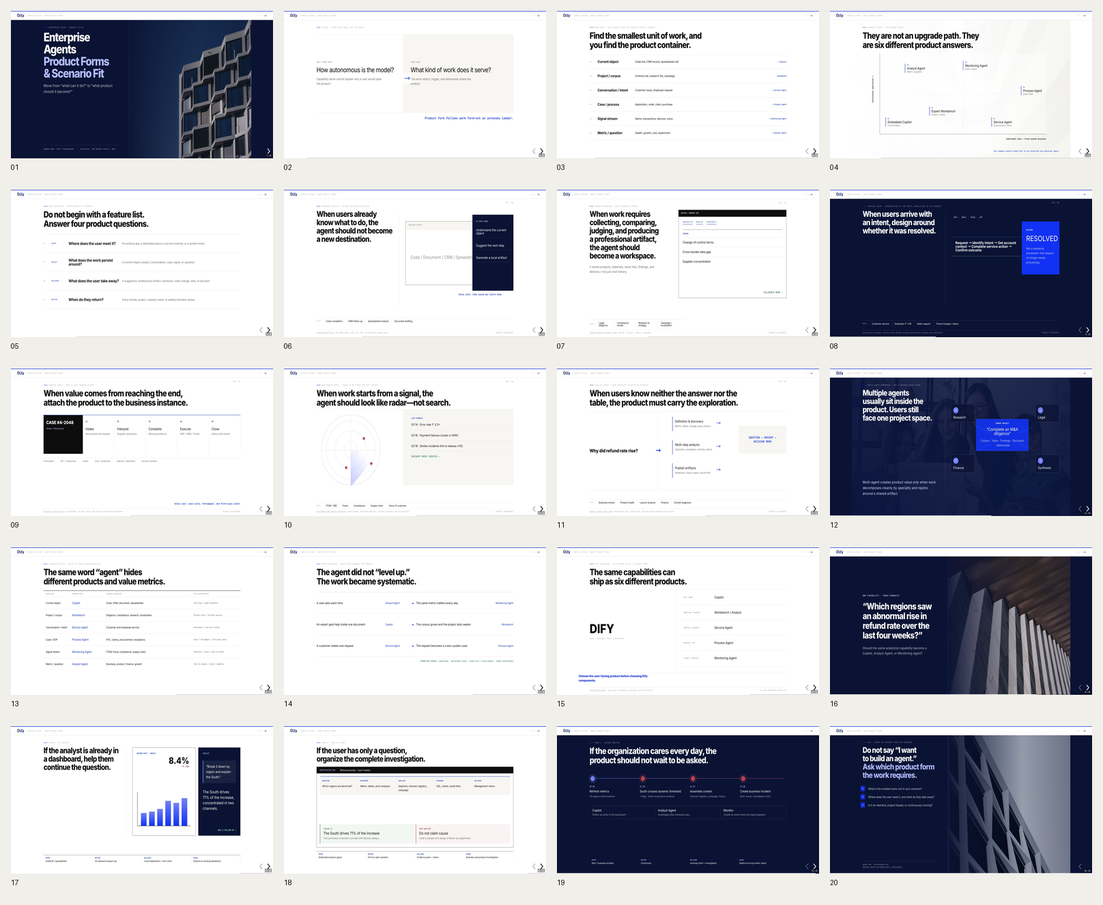
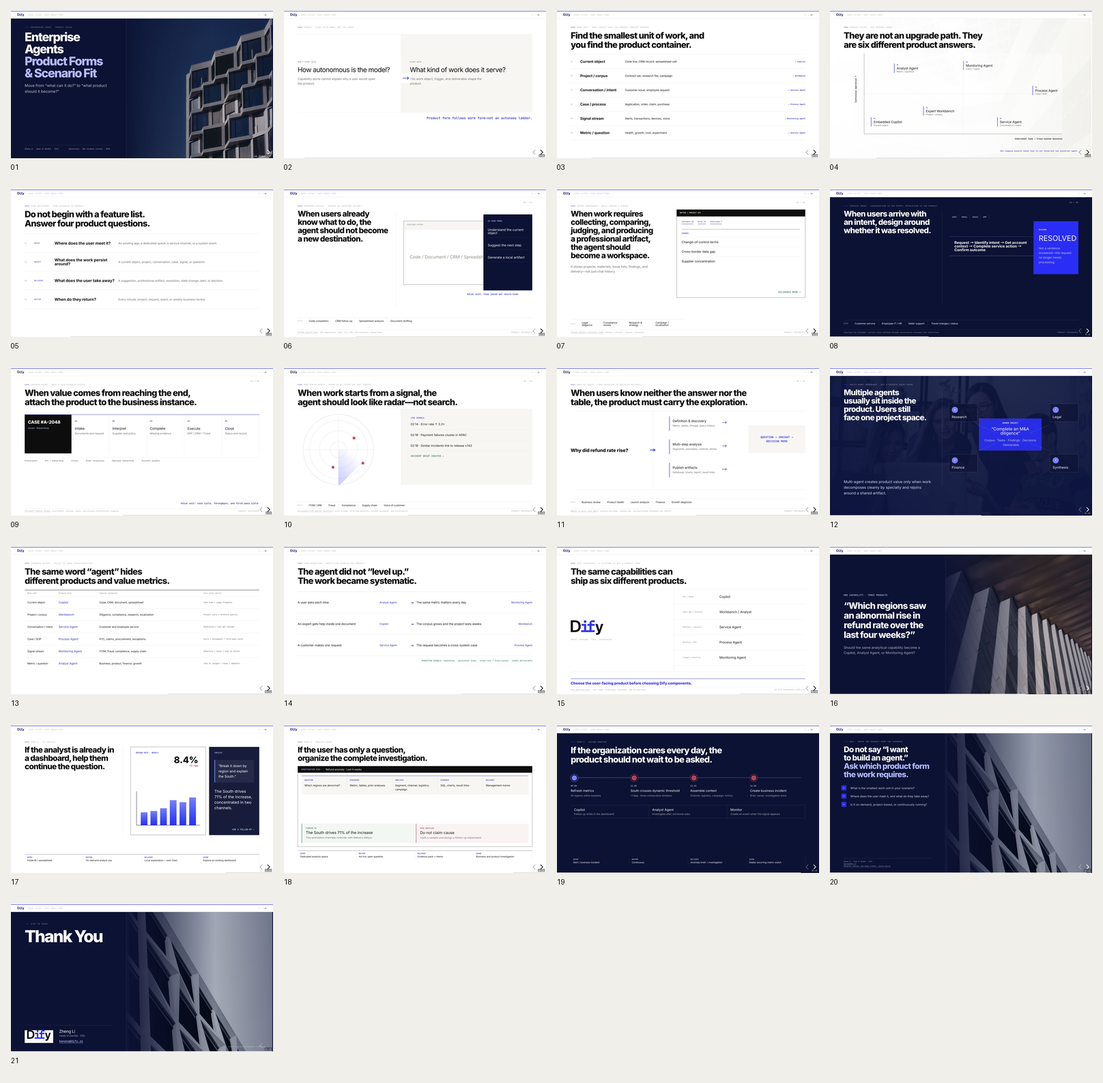
Polish Chinese deck and add thank you slide

diff --git a/enterprise-agent-campus/index.html b/enterprise-agent-campus/index.html
@@ -7,7 +7,8 @@
   <link rel="stylesheet" href="https://cdn.jsdelivr.net/npm/reveal.js@4.5.0/dist/reset.css"><link rel="stylesheet" href="https://cdn.jsdelivr.net/npm/reveal.js@4.5.0/dist/reveal.css">
   <link rel="preconnect" href="https://fonts.googleapis.com"><link rel="preconnect" href="https://fonts.gstatic.com" crossorigin><link href="https://fonts.googleapis.com/css2?family=Inter:wght@400;500;600;700;800&amp;family=Noto+Sans+SC:wght@400;500;600;700;800&amp;family=JetBrains+Mono:wght@400;500;600;700&amp;display=swap" rel="stylesheet">
   <link rel="stylesheet" href="styles.css?v=20260826-backgrounds2">
-  <link rel="stylesheet" href="editorial.css?v=20260826-index-reference3">
+  <link rel="stylesheet" href="editorial.css?v=20260826-index-reference4">
+  <link rel="stylesheet" href="editorial-zh.css?v=20260826-zh-spacing1">
 </head>
 <body>
   <div class="deck-brand"><img src="../assets/logo.svg" alt="Dify"><span>Campus Lecture · Agent Product Forms</span></div>
@@ -17,7 +18,7 @@
     <!-- 01 · VISUAL_SLOT: cover -->
     <section class="cover-slide" data-slide-id="f01-cover">
       <img class="photo-bg" src="assets/bg-enterprise-grid-timothee-duran.jpg" alt="Timothée Duran 在 Unsplash 发布的深蓝天空与几何办公建筑"><div class="cover-shade"></div>
-      <div class="cover-copy"><div><div class="eyebrow on-dark">Enterprise Agent · Product Atlas</div><h1>企业 Agent<br><span>产品形态<br>与场景选择</span></h1><p>从“能做什么”，走向“应该被做成什么产品”。</p></div><div class="cover-meta"><span>讲者姓名 · 职务 / 组织</span><span>学校 · 新生讲座 · 2026</span><b>45 MIN</b></div></div>
+      <div class="cover-copy"><div><div class="eyebrow on-dark">Enterprise Agent · Product Atlas</div><h1>企业 Agent<br><span>产品形态<br>与场景选择</span></h1><p>从“能做什么”，走向“应该被做成什么产品”。</p></div><div class="cover-meta"><span>Zheng Li · Head of DevRel · Dify</span><span>学校 · 新生讲座 · 2026</span><b>45 MIN</b></div></div>
       <aside class="notes">时长 0:30。核心讲法：今天不从模型、工具调用或治理功能开始，而是观察企业里已经出现的 Agent 产品形态，以及每种形态为什么适合不同工作。术语：产品形态指入口、工作对象、交付物和使用节奏的组合。过渡：先给出全场最重要的判断。证据边界：六类形态是教学分类，不是行业唯一分类。</aside>
     </section>
 
@@ -31,7 +32,7 @@
 
     <!-- 03 -->
     <section data-slide-id="f03-work-unit">
-      <div class="eyebrow">Work Unit · 产品围绕什么对象持续存在？</div><h2>找到最小工作单元，就找到了产品的“容器”。</h2>
+      <div class="eyebrow">Work Unit · 产品围绕什么对象持续存在？</div><h2>找到最小工作单元，<br>就找到了产品的“容器”。</h2>
       <div class="unit-spine">
         <div class="unit-line"></div>
         <div class="unit u1"><span>01</span><strong>当前对象</strong><p>代码行、CRM 记录、表格单元</p><b>→ Copilot</b></div>
@@ -47,7 +48,7 @@
     <!-- 04 -->
     <section class="atlas-slide" data-slide-id="f04-product-atlas">
       <img class="photo-bg atlas-photo" src="assets/bg-atrium-willian-justen.jpg" alt="Willian Justen de Vasconcellos 在 Unsplash 发布的现代中庭网格结构"><div class="atlas-veil"></div>
-      <div class="eyebrow">Product Atlas · 六种主形态</div><h2>它们不是一条升级路径，而是六种不同的产品答案。</h2>
+      <div class="eyebrow">Product Atlas · 六种主形态</div><h2>它们不是一条升级路径，<br>而是六种不同的产品答案。</h2>
       <div class="atlas-map">
         <div class="atlas-axis y">持续运行 ↑</div><div class="atlas-axis x">从个人任务 → 跨系统业务</div>
         <div class="atlas-dot ad1"><span>01</span><strong>嵌入式 Copilot</strong><small>当前对象</small></div>
@@ -63,7 +64,7 @@
 
     <!-- 05 -->
     <section data-slide-id="f05-four-questions">
-      <div class="eyebrow">Four Questions · 场景到产品</div><h2>别先写功能列表，先回答四个产品问题。</h2>
+      <div class="eyebrow">Four Questions · 场景到产品</div><h2>别先写功能列表，<br>先回答四个产品问题。</h2>
       <div class="question-route">
         <div class="route-line"></div>
         <div class="route-q"><span>01</span><small>ENTRY</small><strong>用户从哪里遇见它？</strong><p>已有软件、独立空间、服务渠道，还是系统事件。</p></div>
@@ -119,7 +120,7 @@
 
     <!-- 10 · REPORT_SLOT: monitoring agent -->
     <section class="monitor-slide" data-slide-id="f10-monitoring">
-      <div class="form-index">05 / 06</div><div class="eyebrow">Monitoring Agent · 产品没有“打开”时刻</div><h2>当工作从信号开始，Agent 应该像雷达，而不是搜索框。</h2>
+      <div class="form-index">05 / 06</div><div class="eyebrow">Monitoring Agent · 产品没有“打开”时刻</div><h2>当工作从信号开始，<br>Agent 应该像雷达，而不是搜索框。</h2>
       <div class="radar-stage"><div class="radar"><i></i><i></i><i></i><div class="sweep"></div><span class="ping p1"></span><span class="ping p2"></span><span class="ping p3"></span></div><div class="signal-feed fragment fade-up" data-fragment-index="0"><small>LIVE SIGNALS</small><p>02:14 · Error rate ↑ 3.2×</p><p>02:16 · 付款失败集中于 APAC</p><p>02:18 · 同类事件关联发布 v742</p><div class="signal-output">INCIDENT BRIEF CREATED →</div></div></div>
       <div class="scene-ribbon monitor-scenes"><b>适合</b><span>ITOM / SRE 告警</span><span>欺诈与交易风险</span><span>合规监测</span><span>供应链异常</span><span>客户声音</span></div>
       <div class="source-bar"><span><a href="https://www.servicenow.com/docs/r/it-operations-management/now-assist-for-it-operations-management/now-assist-itom-ai-agent-workflows.html" target="_blank" rel="noopener">ServiceNow ITOM agentic workflows</a>：告警分诊、模式识别、关联事件与验证</span><span>PRODUCT REFERENCE</span></div>
@@ -146,7 +147,7 @@
 
     <!-- 13 -->
     <section data-slide-id="f13-scenario-matrix">
-      <div class="eyebrow">Scenario Matrix · 用工作特征选形态</div><h2>同样叫“Agent”，产品设计和价值指标完全不同。</h2>
+      <div class="eyebrow">Scenario Matrix · 用工作特征选形态</div><h2>同样叫“Agent”，<br>产品设计和价值指标完全不同。</h2>
       <div class="form-matrix"><div class="fm-head"><span>工作单元</span><span>产品形态</span><span>典型场景</span><span>核心价值指标</span></div>
         <div class="fm-row"><b>当前对象</b><strong>Copilot</strong><p>编码、CRM、文档、表格</p><em>任务耗时 / 使用频率</em></div>
         <div class="fm-row"><b>项目 / 材料</b><strong>Workbench</strong><p>尽调、合规、研究、本地化</p><em>项目周期 / 产物质量</em></div>
@@ -172,8 +173,8 @@
 
     <!-- 15 -->
     <section data-slide-id="f15-dify-packaging">
-      <div class="eyebrow">Dify Packaging · 平台不是产品形态</div><h2>同一套能力，可以被发布成六种不同产品。</h2>
-      <div class="dify-metro"><div class="dify-core">DIFY<br><small>Models · Knowledge · Tools · Orchestration</small></div><div class="metro-line ml1"><span>API / Embed</span><strong>Copilot</strong></div><div class="metro-line ml2"><span>Agent App / Chatflow</span><strong>Workbench / Analyst</strong></div><div class="metro-line ml3"><span>Chatflow + Channels</span><strong>Service Agent</strong></div><div class="metro-line ml4"><span>Workflow + API</span><strong>Process Agent</strong></div><div class="metro-line ml5"><span>Trigger + Workflow</span><strong>Monitoring Agent</strong></div></div>
+      <div class="eyebrow">Dify Packaging · 平台不是产品形态</div><h2>同一套能力，可以被发布成<br>六种不同产品。</h2>
+      <div class="dify-metro"><div class="dify-core"><img class="dify-platform-logo" src="../assets/logo.svg" alt="Dify"><small>Models · Knowledge · Tools · Orchestration</small></div><div class="metro-line ml1"><span>API / Embed</span><strong>Copilot</strong></div><div class="metro-line ml2"><span>Agent App / Chatflow</span><strong>Workbench / Analyst</strong></div><div class="metro-line ml3"><span>Chatflow + Channels</span><strong>Service Agent</strong></div><div class="metro-line ml4"><span>Workflow + API</span><strong>Process Agent</strong></div><div class="metro-line ml5"><span>Trigger + Workflow</span><strong>Monitoring Agent</strong></div></div>
       <div class="packaging-verdict">选择 Dify 组件之前，先决定用户面对的是哪一种产品。</div>
       <div class="source-bar"><span><a href="https://docs.dify.ai/en/guides/application-orchestrate/creating-an-application" target="_blank" rel="noopener">Dify Workflow docs</a> · Workflow、用户输入、分支、迭代与 API 发布</span><span>30 MIN FRAMEWORK COMPLETE</span></div>
       <aside class="notes">时长 1:30。核心讲法：Dify 提供模型、知识、工具和编排，但真正的产品形态来自发布入口和工作对象。API 可嵌入 Copilot，Chatflow 承载服务，Workflow 推进流程和监测，Agent App 承载探索。术语：packaging 是把共享能力包装成面向具体用户和场景的产品。过渡：用同一个退款率问题，演示三种形态的差别。证据边界：映射是产品设计建议，不是 Dify 官方固定分类。</aside>
@@ -196,7 +197,7 @@
 
     <!-- 18 · CASE_SLOT: analyst product -->
     <section class="analyst-case-slide" data-slide-id="f18-case-analyst">
-      <div class="eyebrow">Form B · Analyst Agent</div><h2>如果用户只有问题，产品必须替他组织一次完整调查。</h2>
+      <div class="eyebrow">Form B · Analyst Agent</div><h2>如果用户只有问题，<br>产品必须替他组织一次完整调查。</h2>
       <div class="investigation-canvas"><div class="investigation-head"><span>INVESTIGATION #184</span><strong>Refund anomaly · Last 4 weeks</strong></div><div class="investigation-path"><div><small>QUESTION</small><p>哪些地区异常？</p></div><div><small>DISCOVERY</small><p>指标、表、历史分析</p></div><div><small>ANALYSIS</small><p>分群、渠道、物流、活动</p></div><div><small>EVIDENCE</small><p>SQL、图表、结果链接</p></div><div><small>DELIVERY</small><p>管理层 Memo</p></div></div><div class="finding fragment fade-up" data-fragment-index="0"><b>FINDING 01</b><strong>南区贡献 71% 的增量</strong><p>两个促销渠道与延迟配送共同出现。</p></div><div class="finding f2 fragment fade-up" data-fragment-index="1"><b>OPEN QUESTION</b><strong>不能直接声称因果</strong><p>建议抽样核对并设计后续实验。</p></div></div>
       <div class="product-spec"><span><small>ENTRY</small>独立分析空间</span><span><small>RHYTHM</small>临时开放问题</span><span><small>DELIVERY</small>证据包 + Memo</span><span><small>SCENE</small>经营与产品调查</span></div>
       <aside class="notes">时长 3:00。核心讲法：分析 Agent 把一个开放问题变成 investigation，保存发现路径、证据和管理层产物。适合业务用户没有预先选好表或图的场景。术语：investigation 是可持续几小时或几天的分析项目。过渡：当同一问题每周都被重复问，产品还会进一步变成监测 Agent。证据边界：发现和数字均为合成教学内容。</aside>
@@ -204,7 +205,7 @@
 
     <!-- 19 · CASE_SLOT: monitoring product -->
     <section class="monitor-case-slide" data-slide-id="f19-case-monitor">
-      <div class="eyebrow on-dark">Form C · Refund Monitor</div><h2>如果组织每天都关心同一异常，产品不该等人来问。</h2>
+      <div class="eyebrow on-dark">Form C · Refund Monitor</div><h2>如果组织每天都关心同一异常，<br>产品不该等人来问。</h2>
       <div class="monitor-timeline"><div class="timeline-line"></div><div class="time-event e1"><span>09:00</span><strong>刷新指标</strong><p>所有地区在基线内</p></div><div class="time-event e2 fragment fade-up" data-fragment-index="0"><span>11:20</span><strong>南区越过动态阈值</strong><p>+1.8pp · 连续 3 个窗口</p></div><div class="time-event e3 fragment fade-up" data-fragment-index="1"><span>11:24</span><strong>自动聚合上下文</strong><p>渠道、物流、活动与历史异常</p></div><div class="time-event e4 fragment fade-up" data-fragment-index="2"><span>11:28</span><strong>创建经营事件</strong><p>Brief、负责人、后续调查入口</p></div></div>
       <div class="three-form-compare fragment fade-up" data-fragment-index="3"><div><b>Copilot</b><span>人在 Dashboard 时追问</span></div><div><b>Analyst Agent</b><span>有人提出问题后调查</span></div><div><b>Monitor</b><span>信号出现时主动创建事件</span></div></div>
       <div class="product-spec dark-spec"><span><small>ENTRY</small>告警 / 经营事件</span><span><small>RHYTHM</small>持续运行</span><span><small>DELIVERY</small>异常 Brief + 调查入口</span><span><small>SCENE</small>稳定、重复的指标监测</span></div>
@@ -214,8 +215,16 @@
     <!-- 20 · VISUAL_SLOT: closing -->
     <section class="closing-slide" data-slide-id="f20-qa">
       <img class="photo-bg" src="assets/bg-geometric-facade-arlind.jpg" alt="Arlind Photography 在 Unsplash 发布的现代建筑几何立面"><div class="closing-shade"></div>
-      <div class="closing-copy"><div class="eyebrow on-dark">Q&amp;A · 从场景反推产品</div><h2>不要问“我要做一个 Agent”。<br><span>先问：这项工作需要哪种产品形态？</span></h2><div class="question-path"><p class="fragment fade-up" data-fragment-index="0"><b>01</b> 你的场景最小工作单元是什么？</p><p class="fragment fade-up" data-fragment-index="1"><b>02</b> 用户从哪里遇见它，最后拿走什么？</p><p class="fragment fade-up" data-fragment-index="2"><b>03</b> 它是按需使用、按项目使用，还是持续运行？</p></div><div class="closing-meta"><p>讲者姓名 · speaker@example.com<br><a href="source-map.md" target="_blank">研究、来源与图片版权 → source-map.md</a></p><p>Unsplash：Timothée Duran · Willian Justen · Mimi Thian · Declan Sun · Arlind Photography<br>学校 · 新生讲座 · 2026</p></div></div>
-      <aside class="notes">时长 5:00。核心讲法：用三个产品问题引导讨论。若现场安静，让同学先说出自己专业里一个稳定的工作对象，再判断对应形态。术语：场景选择是从工作单元、入口、交付和节奏反推产品。过渡：会后可查看 source map。证据边界：Q&amp;A 不扩展为未经验证的产品承诺；联系方式仍是占位符。</aside>
+      <div class="closing-copy"><div class="eyebrow on-dark">Q&amp;A · 从场景反推产品</div><h2>不要问“我要做一个 Agent”。<br><span>先问：这项工作需要哪种产品形态？</span></h2><div class="question-path"><p class="fragment fade-up" data-fragment-index="0"><b>01</b> 你的场景最小工作单元是什么？</p><p class="fragment fade-up" data-fragment-index="1"><b>02</b> 用户从哪里遇见它，最后拿走什么？</p><p class="fragment fade-up" data-fragment-index="2"><b>03</b> 它是按需使用、按项目使用，还是持续运行？</p></div><div class="closing-meta"><p>Zheng Li · Head of DevRel · Dify<br><a href="mailto:banana@dify.ai">banana@dify.ai</a><br><a href="source-map.md" target="_blank">研究、来源与图片版权 → source-map.md</a></p><p>Unsplash：Timothée Duran · Willian Justen · Mimi Thian · Declan Sun · Arlind Photography<br>学校 · 新生讲座 · 2026</p></div></div>
+      <aside class="notes">时长 4:30。核心讲法：用三个产品问题引导讨论。若现场安静，让同学先说出自己专业里一个稳定的工作对象，再判断对应形态。术语：场景选择是从工作单元、入口、交付和节奏反推产品。过渡：用联系方式结束，并邀请会后交流。证据边界：Q&amp;A 不扩展为未经验证的产品承诺。</aside>
+    </section>
+
+    <!-- 21 · VISUAL_SLOT: thank you -->
+    <section class="thank-you-slide" data-slide-id="f21-thank-you">
+      <img class="photo-bg thank-you-photo" src="assets/bg-geometric-facade-arlind.jpg" alt="Arlind Photography 在 Unsplash 发布的现代建筑几何立面"><div class="thank-you-shade"></div>
+      <div class="thank-you-copy"><div class="thank-you-main"><div class="eyebrow on-dark">谢谢 · 保持联系</div><h2>Thank You</h2></div><div class="thank-you-contact"><span class="thank-you-logo"><img src="../assets/logo.svg" alt="Dify"></span><div><strong>Zheng Li</strong><span>Head of DevRel · Dify</span><a href="mailto:banana@dify.ai">banana@dify.ai</a></div></div></div>
+      <div class="thank-you-credit">Photo · Arlind Photography / Unsplash</div>
+      <aside class="notes">时长 0:30。核心讲法：感谢到场，并邀请同学通过邮箱继续交流企业 Agent 的产品形态与场景选择。术语：无。过渡：演讲结束。证据边界：联系方式为讲者公开工作邮箱。</aside>
     </section>
 
   </div></div>

diff --git a/enterprise-agent-campus/index_en.html b/enterprise-agent-campus/index_en.html
@@ -3,14 +3,14 @@
 <head>
   <meta charset="utf-8"><meta name="viewport" content="width=device-width, initial-scale=1.0, maximum-scale=1.0, user-scalable=no"><title>Enterprise Agents: Product Forms and Scenario Fit — Dify</title>
   <link rel="icon" href="../assets/logo.svg" type="image/svg+xml"><link rel="stylesheet" href="https://cdn.jsdelivr.net/npm/reveal.js@4.5.0/dist/reset.css"><link rel="stylesheet" href="https://cdn.jsdelivr.net/npm/reveal.js@4.5.0/dist/reveal.css">
-  <link rel="preconnect" href="https://fonts.googleapis.com"><link rel="preconnect" href="https://fonts.gstatic.com" crossorigin><link href="https://fonts.googleapis.com/css2?family=Inter:wght@400;500;600;700;800&amp;family=Noto+Sans+SC:wght@400;500;600;700;800&amp;family=JetBrains+Mono:wght@400;500;600;700&amp;display=swap" rel="stylesheet"><link rel="stylesheet" href="styles.css?v=20260826-backgrounds2"><link rel="stylesheet" href="editorial.css?v=20260826-index-reference3">
+  <link rel="preconnect" href="https://fonts.googleapis.com"><link rel="preconnect" href="https://fonts.gstatic.com" crossorigin><link href="https://fonts.googleapis.com/css2?family=Inter:wght@400;500;600;700;800&amp;family=Noto+Sans+SC:wght@400;500;600;700;800&amp;family=JetBrains+Mono:wght@400;500;600;700&amp;display=swap" rel="stylesheet"><link rel="stylesheet" href="styles.css?v=20260826-backgrounds2"><link rel="stylesheet" href="editorial.css?v=20260826-index-reference4">
 </head>
 <body>
   <div class="deck-brand"><img src="../assets/logo.svg" alt="Dify"><span>Campus Lecture · Agent Product Forms</span></div><div class="lang-switch"><a href="index.html">中文</a><span>/</span><a class="active" href="index_en.html">EN</a></div>
   <div class="reveal"><div class="slides">
 
     <section class="cover-slide" data-slide-id="f01-cover">
-      <img class="photo-bg" src="assets/bg-enterprise-grid-timothee-duran.jpg" alt="Deep blue sky and geometric office building by Timothée Duran on Unsplash"><div class="cover-shade"></div><div class="cover-copy"><div><div class="eyebrow on-dark">Enterprise Agent · Product Atlas</div><h1>Enterprise Agents<br><span>Product Forms<br>&amp; Scenario Fit</span></h1><p>Move from “what can it do?” to “what product should it become?”</p></div><div class="cover-meta"><span>Speaker Name · Role / Organization</span><span>University · New Student Lecture · 2026</span><b>45 MIN</b></div></div>
+      <img class="photo-bg" src="assets/bg-enterprise-grid-timothee-duran.jpg" alt="Deep blue sky and geometric office building by Timothée Duran on Unsplash"><div class="cover-shade"></div><div class="cover-copy"><div><div class="eyebrow on-dark">Enterprise Agent · Product Atlas</div><h1>Enterprise Agents<br><span>Product Forms<br>&amp; Scenario Fit</span></h1><p>Move from “what can it do?” to “what product should it become?”</p></div><div class="cover-meta"><span>Zheng Li · Head of DevRel · Dify</span><span>University · New Student Lecture · 2026</span><b>45 MIN</b></div></div>
       <aside class="notes">Time 0:30. Core delivery: start not with models, tool calls, or governance features, but with the product forms emerging inside enterprises and the work each form fits. Term: product form combines entry point, work object, deliverable, and usage rhythm. Transition: begin with the lecture's central claim. Evidence boundary: the six forms are a teaching taxonomy, not the only industry taxonomy.</aside>
     </section>
 
@@ -100,7 +100,7 @@
 
     <section data-slide-id="f15-dify-packaging">
       <div class="eyebrow">Dify Packaging · A Platform Is Not a Product Form</div><h2>The same capabilities can ship as six different products.</h2>
-      <div class="dify-metro"><div class="dify-core">DIFY<br><small>Models · Knowledge · Tools · Orchestration</small></div><div class="metro-line ml1"><span>API / Embed</span><strong>Copilot</strong></div><div class="metro-line ml2"><span>Agent App / Chatflow</span><strong>Workbench / Analyst</strong></div><div class="metro-line ml3"><span>Chatflow + Channels</span><strong>Service Agent</strong></div><div class="metro-line ml4"><span>Workflow + API</span><strong>Process Agent</strong></div><div class="metro-line ml5"><span>Trigger + Workflow</span><strong>Monitoring Agent</strong></div></div><div class="packaging-verdict">Choose the user-facing product before choosing Dify components.</div>
+      <div class="dify-metro"><div class="dify-core"><img class="dify-platform-logo" src="../assets/logo.svg" alt="Dify"><small>Models · Knowledge · Tools · Orchestration</small></div><div class="metro-line ml1"><span>API / Embed</span><strong>Copilot</strong></div><div class="metro-line ml2"><span>Agent App / Chatflow</span><strong>Workbench / Analyst</strong></div><div class="metro-line ml3"><span>Chatflow + Channels</span><strong>Service Agent</strong></div><div class="metro-line ml4"><span>Workflow + API</span><strong>Process Agent</strong></div><div class="metro-line ml5"><span>Trigger + Workflow</span><strong>Monitoring Agent</strong></div></div><div class="packaging-verdict">Choose the user-facing product before choosing Dify components.</div>
       <div class="source-bar"><span><a href="https://docs.dify.ai/en/guides/application-orchestrate/creating-an-application" target="_blank" rel="noopener">Dify Workflow docs</a> · user input, branching, iteration, and API delivery</span><span>30 MIN FRAMEWORK COMPLETE</span></div>
       <aside class="notes">Time 1:30. Core delivery: Dify supplies models, knowledge, tools, and orchestration, while product form comes from the delivery entry and work object. API enables copilots, Chatflow service, Workflow processes and monitoring, and Agent App exploration. Term: packaging turns shared capability into a product for one user and scenario. Transition: compare three products built from the same refund question. Evidence boundary: this mapping is product-design guidance, not Dify's official fixed taxonomy.</aside>
     </section>
@@ -129,8 +129,15 @@
     </section>
 
     <section class="closing-slide" data-slide-id="f20-qa">
-      <img class="photo-bg" src="assets/bg-geometric-facade-arlind.jpg" alt="Modern geometric building facade by Arlind Photography on Unsplash"><div class="closing-shade"></div><div class="closing-copy"><div class="eyebrow on-dark">Q&amp;A · Infer the Product from the Scenario</div><h2>Do not say “I want to build an agent.”<br><span>Ask which product form the work requires.</span></h2><div class="question-path"><p class="fragment fade-up" data-fragment-index="0"><b>01</b> What is the smallest work unit in your scenario?</p><p class="fragment fade-up" data-fragment-index="1"><b>02</b> Where does the user meet it, and what do they take away?</p><p class="fragment fade-up" data-fragment-index="2"><b>03</b> Is it on-demand, project-based, or continuously running?</p></div><div class="closing-meta"><p>Speaker Name · speaker@example.com<br><a href="source-map.md" target="_blank">Research, sources, and image credits → source-map.md</a></p><p>Unsplash: Timothée Duran · Willian Justen · Mimi Thian · Declan Sun · Arlind Photography<br>University · New Student Lecture · 2026</p></div></div>
-      <aside class="notes">Time 5:00. Core delivery: use the three product questions to open discussion. If the room is quiet, ask for one stable work object in their discipline and classify the form. Term: scenario selection infers product from work unit, entry, delivery, and rhythm. Transition: source map is available after the talk. Evidence boundary: do not turn Q&amp;A into unverified product commitments; contact information remains placeholder text.</aside>
+      <img class="photo-bg" src="assets/bg-geometric-facade-arlind.jpg" alt="Modern geometric building facade by Arlind Photography on Unsplash"><div class="closing-shade"></div><div class="closing-copy"><div class="eyebrow on-dark">Q&amp;A · Infer the Product from the Scenario</div><h2>Do not say “I want to build an agent.”<br><span>Ask which product form the work requires.</span></h2><div class="question-path"><p class="fragment fade-up" data-fragment-index="0"><b>01</b> What is the smallest work unit in your scenario?</p><p class="fragment fade-up" data-fragment-index="1"><b>02</b> Where does the user meet it, and what do they take away?</p><p class="fragment fade-up" data-fragment-index="2"><b>03</b> Is it on-demand, project-based, or continuously running?</p></div><div class="closing-meta"><p>Zheng Li · Head of DevRel · Dify<br><a href="mailto:banana@dify.ai">banana@dify.ai</a><br><a href="source-map.md" target="_blank">Research, sources, and image credits → source-map.md</a></p><p>Unsplash: Timothée Duran · Willian Justen · Mimi Thian · Declan Sun · Arlind Photography<br>University · New Student Lecture · 2026</p></div></div>
+      <aside class="notes">Time 4:30. Core delivery: use the three product questions to open discussion. If the room is quiet, ask for one stable work object in their discipline and classify the form. Term: scenario selection infers product from work unit, entry, delivery, and rhythm. Transition: close with contact details and invite follow-up. Evidence boundary: do not turn Q&amp;A into unverified product commitments.</aside>
+    </section>
+
+    <section class="thank-you-slide" data-slide-id="f21-thank-you">
+      <img class="photo-bg thank-you-photo" src="assets/bg-geometric-facade-arlind.jpg" alt="Modern geometric building facade by Arlind Photography on Unsplash"><div class="thank-you-shade"></div>
+      <div class="thank-you-copy"><div class="thank-you-main"><div class="eyebrow on-dark">Stay in touch</div><h2>Thank You</h2></div><div class="thank-you-contact"><span class="thank-you-logo"><img src="../assets/logo.svg" alt="Dify"></span><div><strong>Zheng Li</strong><span>Head of DevRel · Dify</span><a href="mailto:banana@dify.ai">banana@dify.ai</a></div></div></div>
+      <div class="thank-you-credit">Photo · Arlind Photography / Unsplash</div>
+      <aside class="notes">Time 0:30. Core delivery: thank the audience and invite follow-up on enterprise agent product forms and scenario selection. Term: none. Transition: end of talk. Evidence boundary: the email address is the speaker's public work contact.</aside>
     </section>
 
   </div></div>

diff --git a/enterprise-agent-campus/editorial.css b/enterprise-agent-campus/editorial.css
@@ -218,12 +218,13 @@ html,body{background:var(--paper);border-top:3px solid var(--blue)}
 
 /* 15 — Dify platform left, packaging index right */
 .dify-metro{height:610px;margin-top:28px;border-top:1px solid var(--line);border-bottom:1px solid var(--line)}
-.dify-core{left:0;top:0;width:44%;height:100%;transform:none;border-radius:0;border-right:1px solid var(--line);background:#fff;color:var(--ink);text-align:left;align-items:flex-start;padding-right:70px;font-size:92px}
-.dify-core small{color:var(--ghost);font-size:12px;text-align:left}
+.dify-core{left:0;top:0;width:44%;height:100%;transform:none;border-radius:0;border-right:1px solid var(--line);background:#fff;color:var(--ink);text-align:left;align-items:flex-start;padding-right:70px;font-size:0}
+.dify-platform-logo{display:block;width:240px;height:auto}
+.dify-core small{margin-top:26px;color:var(--ghost);font-size:12px;text-align:left}
 .metro-line{left:44%;right:0;width:auto;height:112px;padding:0 0 0 65px;border:0;border-bottom:1px solid var(--line);background:#fff;grid-template-columns:270px 1fr}
 .ml1{top:0}.ml2{top:112px}.ml3{top:224px}.ml4{top:336px}.ml5{top:448px}
 .metro-line span{font-size:12px}.metro-line strong{font-size:24px}
-.packaging-verdict{left:0;bottom:90px;width:36%;transform:none;font-size:23px;line-height:1.4;white-space:normal}
+.packaging-verdict{left:96px;right:96px;bottom:64px;width:auto;transform:none;padding-top:15px;border-top:2px solid var(--blue);font-size:27px;line-height:1.3;white-space:normal}
 
 /* 16 — case chapter split */
 .case-cover{background:var(--navy)!important}
@@ -271,6 +272,21 @@ html,body{background:var(--paper);border-top:3px solid var(--blue)}
 .question-path p b{left:-18px;top:11px;width:36px;height:36px;border-radius:0;font-size:10px}
 .closing-meta{left:96px;right:auto;bottom:42px;width:650px;grid-template-columns:1fr;padding-top:14px}
 .closing-meta p{font-size:11px}.closing-meta p:last-child{display:none}
+
+/* 21 — minimal thank-you bookend */
+.thank-you-slide{padding:0!important;background:var(--navy)!important;color:#fff}
+.thank-you-photo{left:44%;width:56%;object-position:center 38%;filter:saturate(.46) contrast(1.08)}
+.thank-you-shade{position:absolute;inset:0;background:linear-gradient(90deg,var(--navy) 0 44%,rgba(8,19,53,.97) 44%,rgba(8,19,53,.28) 78%,rgba(8,19,53,.52))}
+.thank-you-copy{position:relative;z-index:2;width:44%;height:100%;display:flex;flex-direction:column;justify-content:space-between;padding:132px 72px 64px 96px;border-right:1px solid rgba(255,255,255,.2)}
+.thank-you-main h2{margin-top:26px;color:#fff;font-size:122px;line-height:.96;letter-spacing:-.06em}
+.thank-you-contact{display:grid;grid-template-columns:220px 1fr;align-items:center;gap:34px;width:650px;padding-top:28px;border-top:1px solid rgba(255,255,255,.24)}
+.thank-you-logo{display:grid;place-items:center;width:210px;height:94px;background:#fff}
+.thank-you-logo img{display:block;width:174px;height:auto}
+.thank-you-contact strong,.thank-you-contact span,.thank-you-contact a{display:block}
+.thank-you-contact strong{font-size:30px;letter-spacing:-.025em}
+.thank-you-contact span{margin-top:8px;color:rgba(255,255,255,.62);font-size:19px}
+.thank-you-contact a{margin-top:18px;color:#aeb9ff;font:600 21px/1.2 var(--mono);text-underline-offset:5px}
+.thank-you-credit{position:absolute;z-index:2;right:48px;bottom:30px;color:rgba(255,255,255,.5);font:500 11px/1 var(--mono);letter-spacing:.08em;text-transform:uppercase}
 
 @media print{
   html,body{border-top:0}

diff --git a/enterprise-agent-campus/editorial-zh.css b/enterprise-agent-campus/editorial-zh.css
@@ -1,0 +1,105 @@
+:root{
+  --zh-title:68px;
+  --zh-leading:1.06;
+}
+
+html[lang="zh-CN"] .reveal h1,
+html[lang="zh-CN"] .reveal h2,
+html[lang="zh-CN"] .reveal blockquote{
+  letter-spacing:-.048em;
+  text-wrap:balance;
+}
+
+html[lang="zh-CN"] .reveal h2{
+  font-size:var(--zh-title);
+  line-height:var(--zh-leading);
+}
+
+html[lang="zh-CN"] .eyebrow{
+  margin-bottom:18px;
+  letter-spacing:.1em;
+}
+
+/* 01 — Chinese cover cadence */
+html[lang="zh-CN"] .cover-copy h1{
+  width:680px;
+  font-size:92px;
+  line-height:1;
+}
+
+html[lang="zh-CN"] .cover-copy>div>p{
+  margin-top:30px;
+  font-size:29px;
+}
+
+/* 02 — shorter Chinese copy needs more presence */
+html[lang="zh-CN"] .form-thesis strong{
+  margin-top:28px;
+  font-size:54px;
+  line-height:1.1;
+}
+
+html[lang="zh-CN"] .form-thesis p{
+  max-width:560px;
+  margin-top:26px;
+  font-size:24px;
+}
+
+/* Product split pages keep the interface anchored at x = 820 */
+html[lang="zh-CN"] [data-slide-id="f06-copilot"] h2,
+html[lang="zh-CN"] [data-slide-id="f08-service"] h2,
+html[lang="zh-CN"] [data-slide-id="f12-multi-agent"] h2,
+html[lang="zh-CN"] [data-slide-id="f17-case-copilot"] h2{
+  width:710px;
+  font-size:60px;
+  line-height:1.05;
+}
+
+/* 07 — rebalance the compact Chinese claim against the workbench */
+html[lang="zh-CN"] .workbench-layout{
+  grid-template-columns:700px 1fr;
+  gap:80px;
+}
+
+html[lang="zh-CN"] .wb-lead{
+  padding-top:18px;
+}
+
+html[lang="zh-CN"] .wb-lead h2{
+  width:650px;
+  font-size:60px;
+  line-height:1.07;
+}
+
+html[lang="zh-CN"] .wb-lead p{
+  max-width:610px;
+  margin-top:28px;
+  font-size:24px;
+}
+
+/* 16 — Chinese case question uses an intentional three-line measure */
+html[lang="zh-CN"] .case-copy blockquote{
+  width:610px;
+  margin-top:38px;
+  font-size:72px;
+  line-height:1.12;
+}
+
+html[lang="zh-CN"] .case-copy p{
+  width:610px;
+  margin-top:34px;
+  font-size:24px;
+}
+
+/* Closing pages retain their bookend scale */
+html[lang="zh-CN"] [data-slide-id="f20-qa"] .closing-copy h2{
+  width:680px;
+  font-size:58px;
+  line-height:1.06;
+}
+
+html[lang="zh-CN"] .thank-you-main h2{
+  font-size:122px;
+  line-height:.96;
+}
+

diff --git a/enterprise-agent-campus/source-map.md b/enterprise-agent-campus/source-map.md
@@ -39,7 +39,7 @@ Multi-Agent Workspace 不作为第七种用户入口：它通常是 Workbench、
 
 | Slide ID | 核心内容 | 依据与边界 |
 | --- | --- | --- |
-| `f01-cover` | 标题与讲座定位 | 教学设计；讲者和学校为占位符 |
+| `f01-cover` | 标题、讲座定位与讲者 | Zheng Li · Head of DevRel · Dify；学校和日期为占位符 |
 | `f02-thesis` | 产品形态跟随工作形态 | 研究综合判断 |
 | `f03-work-unit` | 六类最小工作单元 | 产品分类抽象；同一场景可组合多种形态 |
 | `f04-product-atlas` | 六种产品形态地图 | 定性定位，不是成熟度或市场份额 |
@@ -58,7 +58,8 @@ Multi-Agent Workspace 不作为第七种用户入口：它通常是 Workbench、
 | `f17-case-copilot` | 退款分析作为 BI Copilot | 合成图表与数字 |
 | `f18-case-analyst` | 退款分析作为 Analyst Agent | 合成 investigation |
 | `f19-case-monitor` | 退款分析作为 Monitoring Agent | 合成阈值与时间线 |
-| `f20-qa` | 从场景反推产品 | 联系方式为占位符 |
+| `f20-qa` | 从场景反推产品 | Q&A；讲者联系方式为 banana@dify.ai |
+| `f21-thank-you` | Thank You 与联系方式 | Zheng Li · Head of DevRel · Dify；公开工作邮箱 banana@dify.ai |
 
 ## Public primary sources
 
@@ -78,7 +79,7 @@ Multi-Agent Workspace 不作为第七种用户入口：它通常是 Workbench、
 | `f04-product-atlas` | `assets/bg-atrium-willian-justen.jpg` | [Willian Justen de Vasconcellos](https://unsplash.com/photos/avT9dYK-9rE) | Full bleed at low opacity; centered on the ceiling grid; warm-white veil for diagram contrast |
 | `f12-multi-agent` | `assets/bg-collaboration-mimi-thian.jpg` | [Mimi Thian](https://unsplash.com/photos/vdXMSiX-n6M) | Full bleed; centered on the group and laptop; navy overlay and blur-backed project objects |
 | `f16-case-brief` | `assets/bg-architecture-shadow-declan-sun.jpg` | [Declan Sun](https://unsplash.com/photos/n8UBJeKko3I) | Full bleed; horizontal crop follows repeating shadows; dark navy overlay |
-| `f20-qa` | `assets/bg-geometric-facade-arlind.jpg` | [Arlind Photography](https://unsplash.com/photos/qk9KT1bcj70) | Full bleed; portrait source cropped around geometric facade; low saturation and navy overlay |
+| `f20-qa`, `f21-thank-you` | `assets/bg-geometric-facade-arlind.jpg` | [Arlind Photography](https://unsplash.com/photos/qk9KT1bcj70) | Q&A 使用低饱和深蓝遮罩；Thank You 采用 44/56 分栏与不同的立面裁切 |
 
 All five files are localized in `assets/`; the slides do not depend on network access. Each image is published on its linked page as a free Unsplash image.
 
@@ -88,7 +89,8 @@ All five files are localized in `assets/`; the slides do not depend on network a
 | --- | --- | --- |
 | Product-form framework | `f01`–`f15` | 30:00 |
 | One capability, three products | `f16`–`f19` | 10:00 |
-| Q&A | `f20` | 5:00 |
+| Q&A | `f20` | 4:30 |
+| Thank You | `f21` | 0:30 |
 
 ## Claim-handling rules
 
@@ -96,4 +98,4 @@ All five files are localized in `assets/`; the slides do not depend on network a
 2. 来源方效果数字不跨案例比较；本版正文不依赖供应商 ROI 数字。
 3. Dify 作为实现与包装平台，不暗示外部案例企业使用 Dify。
 4. 退款分析案例始终是静态合成教学推演。
-5. 旧版 `n01`–`n20` 的委派、契约、证据账本和 HITL 主线已经退役；新版 `f01`–`f20` 是独立结构。
+5. 旧版 `n01`–`n20` 的委派、契约、证据账本和 HITL 主线已经退役；新版 `f01`–`f21` 是独立结构。

diff --git a/enterprise-agent-campus/README.md b/enterprise-agent-campus/README.md
@@ -25,14 +25,16 @@
 
 - `f01`–`f15`：30:00，产品形态框架。
 - `f16`–`f19`：10:00，同一能力的三种产品化方式。
-- `f20`：5:00，Q&A。
+- `f20`：4:30，Q&A。
+- `f21`：0:30，Thank You 与联系方式。
 
 ## 文件结构
 
-- `index.html`：中文 20 页。
-- `index_en.html`：英文等义 20 页。
+- `index.html`：中文 21 页。
+- `index_en.html`：英文等义 21 页。
 - `styles.css`：基础 1920×1080 视觉与组件。
 - `editorial.css`：参考仓库英文索引页重构的编辑式网格与页面分布。
+- `editorial-zh.css`：中文标题断句、字级和页面间距的独立校准层。
 - `source-map.md`：分类逻辑、逐页依据、公开来源和图片版权。
 - `assets/`：本地化 Unsplash 图片。
 - `qa/`：中英文 contact sheet。
@@ -42,6 +44,7 @@
 - 沿用仓库英文索引页的编辑系统：3px Dify Blue 顶线、52px 白色顶栏、44/56 主分栏、细分隔线、单色正文和蓝色索引。
 - 页面先建立左→右或上→下的唯一阅读路径；标题负责结论，右侧或下方只放支持判断的产品界面、流程或证据。
 - 不使用圆角卡片、悬浮阴影和等权矩阵作为默认容器；页面结构由留白、网格、细线、序号和字体层级完成。
+- 中文版按中文字符密度单独控制断句与垂直节奏，不用英文自然换行高度驱动版面。
 - 一页一个产品判断；每种形态使用不同视觉隐喻，不用卡片矩阵重复铺陈。
 - Copilot 使用 sidecar，Workbench 使用项目画布，Service 使用 outcome 波形，Process 使用 case 管线，Monitoring 使用雷达，Analyst 使用探索树。
 - Dify Blue 表示主产品路径，绿色表示交付结果，琥珀表示流程或事件，红色表示异常信号。
